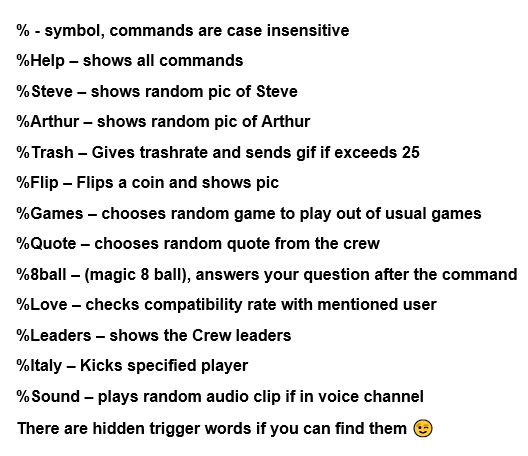
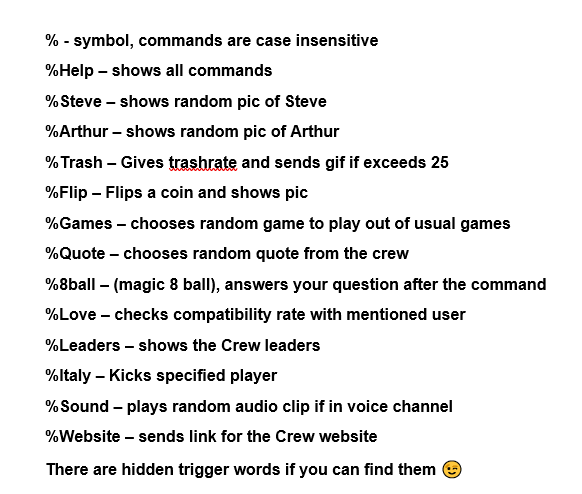
Added bot page

Changed region(s): [[0.0303, 0.1842, 1.0, 0.9825], [0.0303, 0.0307, 0.6667, 0.1535]]

diff --git a/bot.html b/bot.html
@@ -1,0 +1,167 @@
+<!DOCTYPE HTML>
+<!--
+	Spectral by HTML5 UP
+	html5up.net | @ajlkn
+	Free for personal and commercial use under the CCA 3.0 license (html5up.net/license)
+-->
+<html>
+	<head>
+		<title>Quotes - Echo Crew</title>
+		<meta charset="utf-8" />
+		<meta name="viewport" content="width=device-width, initial-scale=1, user-scalable=no" />
+		<link rel="stylesheet" href="assets/css/main.css" />
+		<noscript><link rel="stylesheet" href="assets/css/noscript.css" /></noscript>
+	</head>
+	<body class="is-preload">
+
+		<!-- Page Wrapper -->
+			<div id="page-wrapper">
+
+				<!-- Header -->
+					<header id="header">
+						<h1><a href="index.html">Echo Crew</a></h1>
+						<nav id="nav">
+							<ul>
+								<li class="special">
+									<a href="#menu" class="menuToggle"><span>Menu</span></a>
+									<div id="menu">
+										<ul>
+											<li><a href="index.html">Home</a></li>
+											<li><a href="quotes.html">Quotes</a></li>
+                                            <li><a href="gallery.html">Gallery</a></li>
+                                            <li><a href="statistics.html">Statistics</a></li>
+										</ul>
+									</div>
+								</li>
+							</ul>
+						</nav>
+					</header>
+
+				<!-- Main -->
+					<article id="main">
+						<header>
+							<h2>Bot Documentation</h2>
+							<p>Learn How the crew bot works</p>
+						</header>
+						<section class="wrapper style5 special">
+							<div class="inner">
+                                    <h2>Overview</h2>
+                                    <div class="image">
+                                        <img src="images/bot.jpg">
+                                    </div>
+                                    <p></p>
+                                    <p>The Echo Crew Bot is a personalized Discord bot developed using Discord.js and Node.js. It was developed to have personalized commands pertaining to the Crew rather than to the general public. See below for a list of commands.</p>
+                              
+							</div>
+						</section>
+                    </article>
+                    
+                <!-- One -->
+					<section id="one" class="wrapper style3 special">
+						<div class="inner">
+                            <h3>Bot Commands</h3>
+                            <img src="images/help.png">
+						</div>
+					</section>
+                
+
+                <!-- Two -->
+					<section id="one" class="wrapper style4 special">
+						<div class="inner">
+                            <h3>Bot API</h3>
+                            <p>This Discord bot is always reading the messages sent on the server. It is simply checking if the message starts with the percentage symbol and if the remaining string fits its command list. I am open to suggestions on improving the efficiency of the code. Below will feature some snippets of code to provide a general idea of how the bot operates.</p>
+    
+						</div>
+                    </section>
+
+                
+                <!-- Third -->
+					<section id="one" class="wrapper style2">
+						<div class="inner">
+                            <h3>Case Sensitivity</h3>
+                            <p>To remove case sensitivity, the bot will set all incoming messages to uppercase regardless of the original state. We will also split the command name from the prefix.</p>
+<pre class="prettyprint">
+ let args = message.content.substring(prefix.length).split(" ");
+ args[0] = args[0].toUpperCase();
+</pre>
+
+                            <h3>Listening for a Command</h3>
+                            <p>Since all commands start with the percentage symbol, we can set an if statement that will execute if the message starts with it.</p>
+<pre class="prettyprint">
+    if(message.content.startsWith('%'))
+    {
+        switch(args[0])
+        {}
+    }
+</pre>                      <h3>Creating Commands</h3>
+                            <p>Once the command has been activated using the percentage sign, we will then list commands using a switch statement and a case name. In this example the command name is Website and it creates a new Discord.MessageEmbed object which has its own attributes such as description, title, and url. </p>
+<pre class="prettyprint">
+    case "WEBSITE":
+        const newEmbed4 = new Discord.MessageEmbed();
+        newEmbed4.setTitle("Echo Crew Website");
+        newEmbed4.setDescription("The Crew's Website");
+        newEmbed4.setURL('https://j4ninja.github.io/Echo-Crew-Website/');
+        message.channel.send(newEmbed4);
+        break;
+</pre>    
+                            <h3>Random Number Generator</h3>
+                            <p>Randomizer type commands grab a random element from a fixed array filled with data. The RNG is simulated using Math.random() which returns a number between zero and one. We will then multiply it by the array's length and then round down to remove the decimal. </p>
+<pre class="prettyprint">
+ var games = ["League of Legends", "Hollow Knight","Divinity", "Devil May Cry"];
+ message.channel.send(games[Math.floor(Math.random()*games.length)]);
+</pre>
+                            <h3>Playing Audio in Voice Channels</h3>
+                            <p>First we check that the user is actually in a voice channel upon initiating the command. Then we grab the voice channel ID. Then the bot will join that channel and play the mp3 file stored in an audio folder and leave when the audio is finished. </p>
+<pre class="prettyprint">
+ if(message.member.voice.channel) {
+    voiceChannel = message.member.voice.channel;
+    voiceChannel.join().then(connection =>{
+    dispatcher = connection.play('./audio/GHETTO.mp3');
+    dispatcher.on('finish', finish => {voiceChannel.leave()});
+ });
+</pre>
+                            <h3>Trigger Words</h3>
+                            <p>Instead of checking for the percentage symbol at the beginning of the message, we will search through the entire message and see if it contains the trigger word.</p>
+<pre class="prettyprint">
+ if(message2.includes("LOLI") )
+ {
+    message.channel.send("", {files: ["./images/FBI.gif"]});
+ }
+</pre>
+						</div>
+                    </section>
+                    
+				<!-- Footer -->
+					<footer id="footer">
+						<ul class="icons">
+							<li><a href="#" class="icon brands fa-snapchat"><span class="label">Twitter</span></a></li>
+							<li><a href="https://github.com/J4ninja" class="icon brands fa-github"><span class="label">Facebook</span></a></li>
+							<li><a href="https://www.instagram.com/j4.nguyen/" class="icon brands fa-instagram"><span class="label">Instagram</span></a></li>
+							<li><a href="#" class="icon brands fa-linkedin"><span class="label">Dribbble</span></a></li>
+							<li><a href="mailto:j4nguyen134@gmail.com" class="icon solid fa-envelope"><span class="label">Email</span></a></li>
+						</ul>
+						<ul class="copyright">
+							<li>&copy; J4 Incorporated</li><li>All Rights Reserved</a></li>
+						</ul>
+					</footer>
+
+			</div>
+
+		<!-- Scripts -->
+			<script src="assets/js/jquery.min.js"></script>
+			<script src="assets/js/jquery.scrollex.min.js"></script>
+			<script src="assets/js/jquery.scrolly.min.js"></script>
+			<script src="assets/js/browser.min.js"></script>
+			<script src="assets/js/breakpoints.min.js"></script>
+			<script src="assets/js/util.js"></script>
+            <script src="assets/js/main.js"></script>
+            <script src="https://cdn.jsdelivr.net/gh/google/code-prettify@master/loader/run_prettify.js?lang=css&amp;skin=sons-of-obsidian"></script>
+			<script type="text/javascript">
+			function getRandomQuote()
+			{
+				var quotes = ["97943 -The Gang", "Would you wear a large coat? -John", "Hi best friend -Tony", "Money coming in, coming out, all around -Arthur", "I like eating ass -Raf", "Stop playing Dead Island -Arthur", "Tossin one off -Arthur", "Corrin's my main -John", "Texas changed you -Tony", "No more furries -Tony", "Im gay - Raf", "Who are you people -Jacob", "I forgot how to play -Jacob", "Garry's Stove -Arthur", "Bless me, thank you -Steve", "John's mom -Steve", "JV lacrosse practice -Quiplash", "Don't shoot, this man isn't black -Trunks", "Big Shaq -Arthur", "and one - Lucas,Raf", "beat it as a team -Arthur", "AACCCHOOOO!!! - Joseph", "*harmonica screeching* -Jeff", "I'm not a weeb, I'm a pervert -Steve", "MONGOLIAN BEEF -Raf", "How big is your cucumber patch? -Alex", "How did I die -oh yah clan, must've been something stupid -Joseph", "ALLOW IT -Ahmed", "PAUSE -Ahmed", "Spedmobile -Ahmed", "POV, You're my wife -Raf", "It's so big -Arthur", "LET YOUR NUTS HANG! -Ahmed", "I'm gonnna be the number one american, believe it -John", "I'm tired of these headphones, I'm gonna put on my sunglasses -Joseph", "I'm not haitian -Arthur", "I want thy dick - Steve"];
+				document.getElementById("quotearea").value = quotes[Math.floor(Math.random()*quotes.length)];
+			}
+			</script>
+	</body>
+</html>

diff --git a/statistics.html b/statistics.html
@@ -49,7 +49,7 @@
 						<section class="wrapper style3">
 							<div class="inner">
                                 
-                             
+                                    
                                     <div class="counting-sec">
                                       <div class="inner-width">
                                         <div class="col">
@@ -77,7 +77,7 @@
                                         </div>
                                       </div>
                                     </div>
-                                 
+                                
                             
 								
 							</div>
